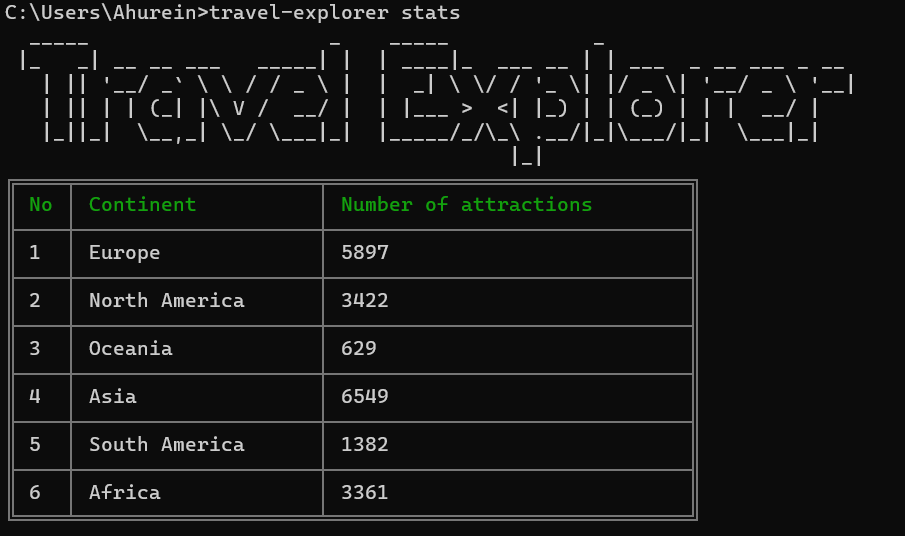
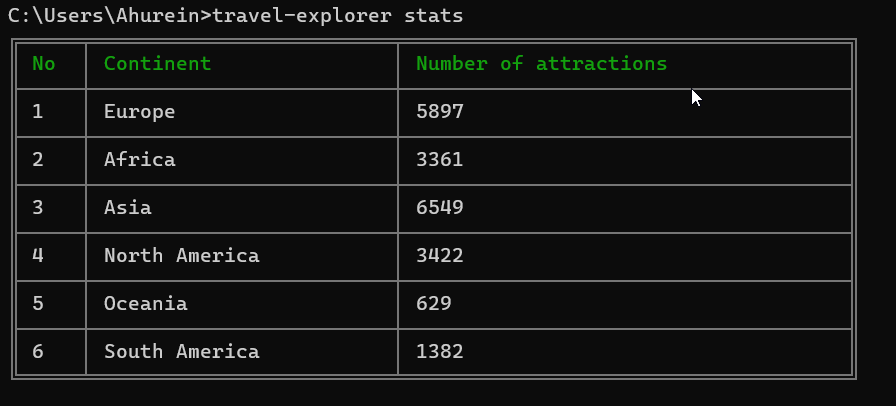
add push workflow and update readme

Changed region(s): [[0.0, 0.0, 0.9688, 0.9754]]

diff --git a/src/index.ts b/src/index.ts
@@ -14,9 +14,14 @@ process.on("unhandledRejection", ()=> {
     process.exit(1)
 })
 
+program.showHelpAfterError(true)
+
 program.version("0.0.1", "-v, --version").description(chalk.bgCyan("CLI utility to easily browse flights, hotels and attractions in every country/city"))
 
-log(figlet.textSync("Travel  Explorer"));
+if(process.argv.slice(2).length === 0){
+    log(figlet.textSync("Travel  Explorer"));
+}
+
 program.addCommand(attractionsCommand);
 program.addCommand(statisticsCommand);
 program.parse(process.argv);

diff --git a/src/helpers/helper.ts b/src/helpers/helper.ts
@@ -3,6 +3,8 @@ import chalk from "chalk";
 import countriesObject from '../data/countries.js'
 import CliTable3 from "cli-table3";
 import { CellOptionsWithHref, IAllCountries } from "../interface/global.interface.js";
+import figlet from "figlet";
+import { program } from "commander";
 
 const paginateColor = chalk.hex("#FC4F00")
 const log = console.log

diff --git a/readme.md b/readme.md
@@ -16,10 +16,10 @@
 
 ```sh
 # Install globally (recommended).
-npm install -g travel-explorer
+npm install -g @ahurein/travel-explorer
 
 # Or run directly with npx
-npx install travel-explorer
+npx install @ahurein/travel-explorer
 ```
 
 ## Usage
@@ -55,3 +55,8 @@ travel-explorer --continent Africa
 travel-explorer stats
 ```
 ![statistics](./images/stats.png)
+
+## Contribution
+To contribute ideas to the project, contact me or send a PR. All Codes are available [here](https://github.com/Ahurein/travel-explorer-cli)
+- [Github](https://github.com/ahurein)
+- [LinkedIn](https://www.linkedin.com/in/ebenezer-ahurein/)
